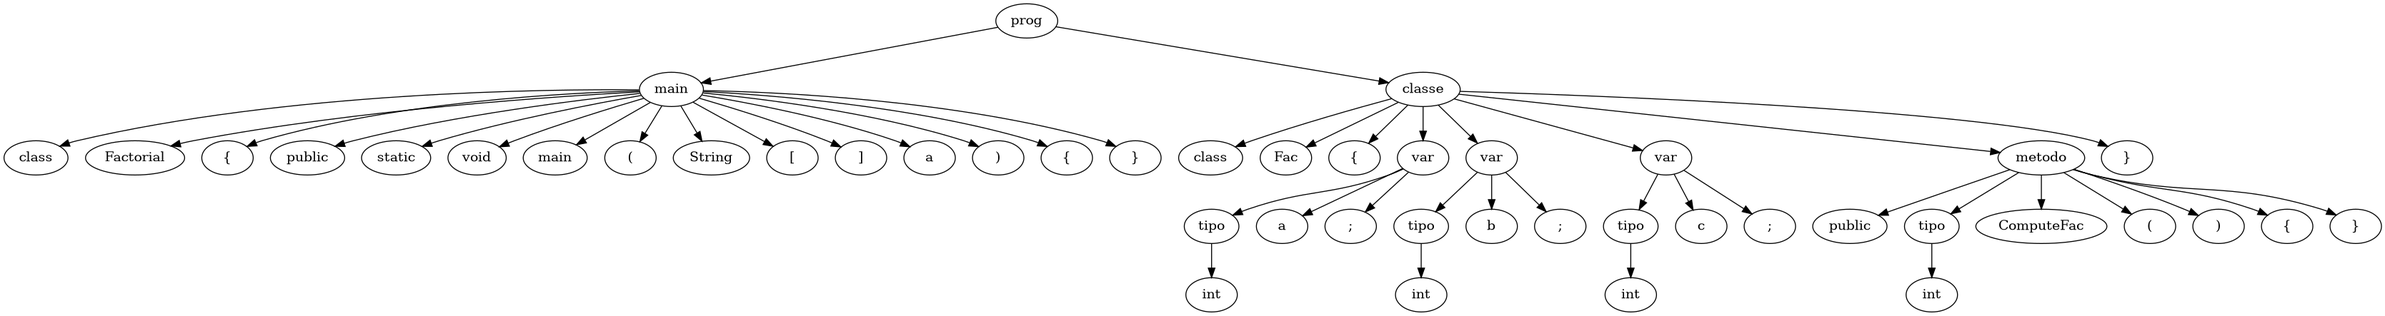
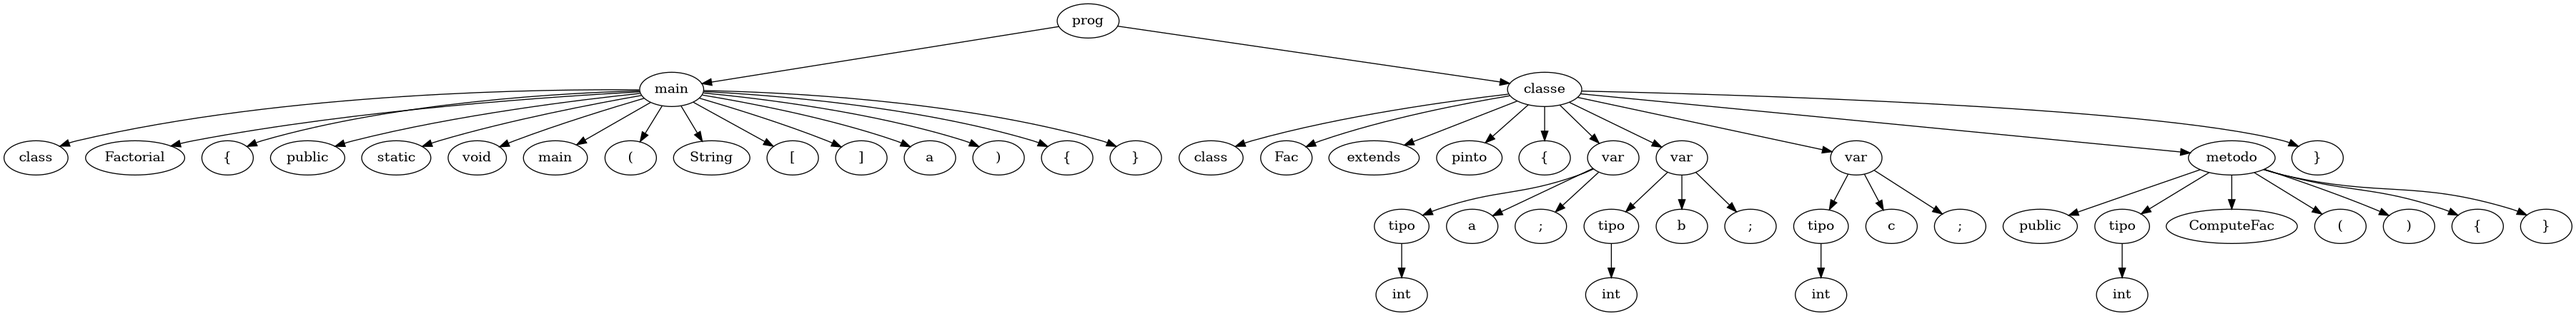
colocando em inglês

diff --git a/classes/parser.py b/classes/parser.py
@@ -75,76 +75,76 @@ class MiniJavaParser:
         
 
     def parse_class(self, father):
-        classe_atual = f'CLASSE{self.id_class}'
-        self.tree.node(classe_atual, 'classe')
-        self.tree.edge(father, classe_atual)
+        current_class = f'CLASSE{self.id_class}'
+        self.tree.node(current_class, 'classe')
+        self.tree.edge(father, current_class)
 
-        self.expect("key","class", classe_atual)
-        self.expect("id", self.peek()[1], classe_atual)
+        self.expect("key","class", current_class)
+        self.expect("id", self.peek()[1], current_class)
 
         if self.peek()[1] == "extends":
-            self.expect("key", "extends", classe_atual)
-            self.expect("id", self.peek()[1], classe_atual)
+            self.expect("key", "extends", current_class)
+            self.expect("id", self.peek()[1], current_class)
 
-        self.expect("del","{", classe_atual)
+        self.expect("del","{", current_class)
  
         while self.peek() != ("del", "}"):
             token = self.peek()
             if token[0] == "type":  # Uma variável começa com um tipo
-                self.parse_var(classe_atual)
+                self.parse_var(current_class)
                 self.id_var += 1
             elif token[0] == "key" and self.peek()[1] == "public":  # Método começa com "public"
-                self.parse_method(classe_atual)
+                self.parse_method(current_class)
                 self.id_method += 1
             else:
                 raise ValueError(f"Token inesperado: {self.peek()}")
         
-        self.expect("del", "}", classe_atual)
+        self.expect("del", "}", current_class)
     
 
     def parse_var(self, father):
-        var_atual = f'VAR{self.id_var}'
-        self.tree.node(var_atual, "var")
-        self.tree.edge(father, var_atual)
-        self.parse_type(var_atual)
+        current_var = f'VAR{self.id_var}'
+        self.tree.node(current_var, "var")
+        self.tree.edge(father, current_var)
+        self.parse_type(current_var)
         self.id_type += 1
-        self.expect("id", self.peek()[1], var_atual)
-        self.expect("del", ";", var_atual)
+        self.expect("id", self.peek()[1], current_var)
+        self.expect("del", ";", current_var)
     
 
     def parse_type(self, father):
-        type_atual = f'TYPE{self.id_type}'
-        self.tree.node(type_atual, "tipo")
-        self.tree.edge(father, type_atual)
+        current_type = f'TYPE{self.id_type}'
+        self.tree.node(current_type, "tipo")
+        self.tree.edge(father, current_type)
         if self.peek()[1] == "int":
-            self.expect("type", "int", type_atual)
+            self.expect("type", "int", current_type)
             if self.peek()[1] == "[":
-                self.expect("del", "[", type_atual)
-                self.expect("del", "]", type_atual)
+                self.expect("del", "[", current_type)
+                self.expect("del", "]", current_type)
         else:
-            self.expect("type" or "id", self.peek()[1], type_atual)
+            self.expect("type" or "id", self.peek()[1], current_type)
                 
     def parse_method(self, father):
-        metodo_atual = f'METODO{self.id_method}'
-        self.tree.node(metodo_atual, "metodo")
-        self.tree.edge(father, metodo_atual)
-        self.expect("key", "public", metodo_atual)
-        self.parse_type(metodo_atual)
-        self.expect("id", self.peek()[1], metodo_atual)
-        self.expect("del", "(", metodo_atual)
+        current_method = f'METODO{self.id_method}'
+        self.tree.node(current_method, "metodo")
+        self.tree.edge(father, current_method)
+        self.expect("key", "public", current_method)
+        self.parse_type(current_method)
+        self.expect("id", self.peek()[1], current_method)
+        self.expect("del", "(", current_method)
         
         #params
 
-        self.expect("del", ")", metodo_atual)
-        self.expect("del", "{", metodo_atual)
+        self.expect("del", ")", current_method)
+        self.expect("del", "{", current_method)
 
         if self.peek()[0] == "type":
-            self.parse_var(metodo_atual)
+            self.parse_var(current_method)
             self.id_var += 1
 
         #CMD
 
-        self.expect("del", "}", metodo_atual)
+        self.expect("del", "}", current_method)
 
        
 

diff --git a/ex1.java b/ex1.java
@@ -4,7 +4,7 @@ class Factorial {
     }
 }
 // Comentário de uma linha
-class Fac {
+class Fac extends pinto {
     int a; 
     int b;
     int c;
